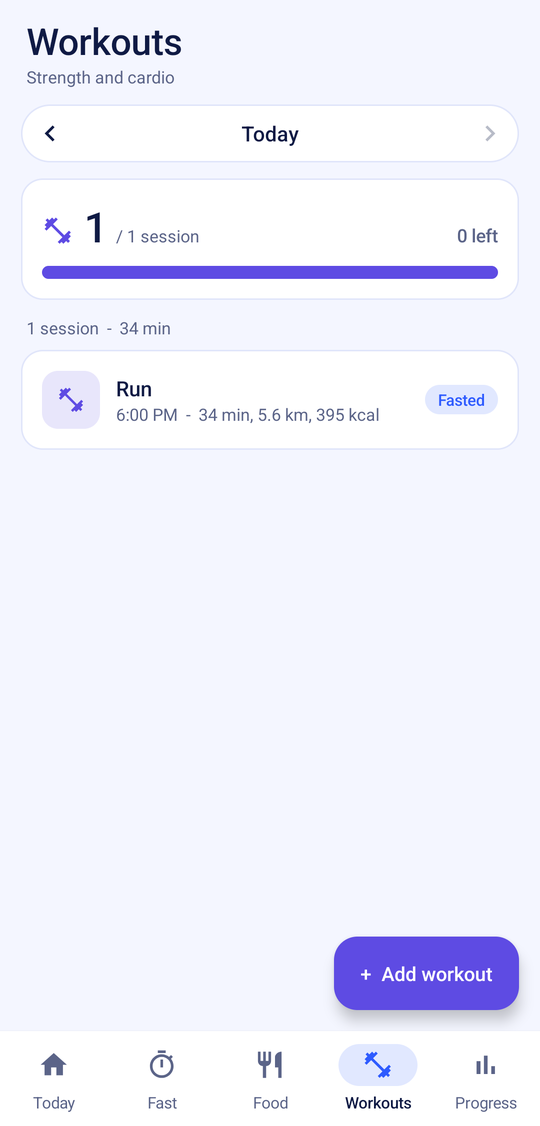
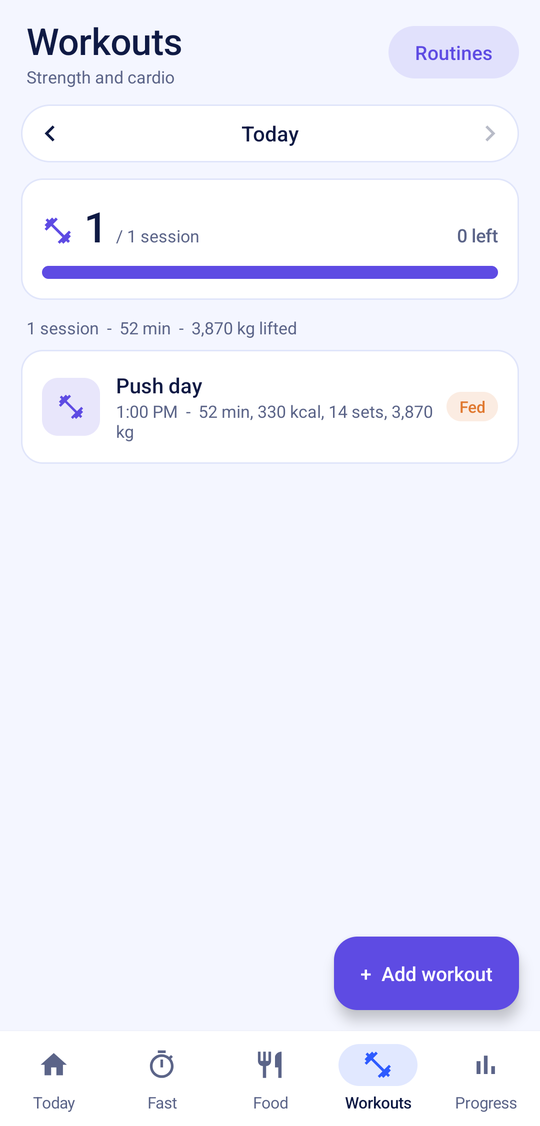
Bump version to 1.2.0 and show routines in the README
Set the version to 1.2.0, versionCode 8. The database moved to version 4
for routines, and a new version keeps this build apart from 1.1.0, which
can't open it.

List the routine features under Workouts and add images of the Routines
screen, the routine editor and the faded exercise suggestion. Recapture
the screens that changed or carry demo data, and add Log strength and
the routine editor to the demo GIF, all from an Android 16 emulator with
invented demo data.

Log food, Log water and the widget images stay as they were, because
those screens didn't change.

diff --git a/README.md b/README.md
@@ -1,13 +1,13 @@
 # Fastwell
 
-![Version 1.1.0](https://img.shields.io/badge/version-1.1.0-blue)
+![Version 1.2.0](https://img.shields.io/badge/version-1.2.0-blue)
 ![Android 16 (API 36)](https://img.shields.io/badge/Android-16%20(API%2036)-brightgreen)
 ![Requires Android 8.0+](https://img.shields.io/badge/requires-Android%208.0%2B-lightgrey)
 
 Track your fasts, meals and workouts in one place. Fastwell combines an intermittent fasting timer with a food journal, a workout journal and progress charts. All your data stays on your phone.
 
 <p align="center">
-  <img src="docs/images/fastwell-demo.gif" alt="Tour of the Fastwell app: Today, Fast, Fasting stages, Food, Workouts and Progress screens" width="300">
+  <img src="docs/images/fastwell-demo.gif" alt="Tour of the Fastwell app: Today, Fast, Fasting stages, Food, Workouts, Log strength, Routine editor and Progress screens" width="300">
 </p>
 
 ## Features
@@ -36,7 +36,11 @@ Track your fasts, meals and workouts in one place. Fastwell combines an intermit
 
 ### Workouts
 - Log cardio and strength sessions with duration, effort and an optional note
-- Record a routine of exercises with sets, reps and weight in strength sessions, and reuse saved or recent routines
+- Add a routine to a strength session, with each exercise's sets, reps and weight or bodyweight
+- Reuse a saved or recent routine, as every routine you log is kept for next time
+- Save routines under a name and manage them from the Routines screen
+- Finish exercise names from faded suggestions as you type, and see what you lifted last time
+- See the sets and kilos lifted in each strength session
 - Pick from running, walking, cycling, swimming, rowing, elliptical and hiking, or name your own activity
 - Get a calorie estimate from your duration, effort and weight
 - Mark each session as fasted or fed
@@ -44,7 +48,11 @@ Track your fasts, meals and workouts in one place. Fastwell combines an intermit
 
 | Workouts | Log cardio | Log strength |
 | :---: | :---: | :---: |
-| <img src="docs/images/demo/05-workouts.png" alt="Workouts" width="240"> | <img src="docs/images/demo/11-log-cardio.png" alt="Log cardio" width="240"> | <img src="docs/images/demo/12-log-strength.png" alt="Log strength" width="240"> |
+| <img src="docs/images/demo/05-workouts.png" alt="Workouts with a Routines button" width="240"> | <img src="docs/images/demo/11-log-cardio.png" alt="Log cardio" width="240"> | <img src="docs/images/demo/12-log-strength.png" alt="Log strength with a routine card" width="240"> |
+
+| Routines | Routine editor | Exercise suggestion |
+| :---: | :---: | :---: |
+| <img src="docs/images/demo/15-routines.png" alt="Saved and recent routines" width="240"> | <img src="docs/images/demo/16-routine-editor.png" alt="Routine editor with sets, reps and weight dials" width="240"> | <img src="docs/images/demo/17-exercise-suggestion.png" alt="Exercise name finished by faded text in the field" width="240"> |
 
 ### Progress
 - See your day at a glance on the Today screen
@@ -75,7 +83,7 @@ Food search is the only feature that sends anything off your phone: your search 
 Fastwell gives general information, not medical advice.
 
 ## Install
-Copy `Fastwell-1.1.0.apk` to the phone, open it, and allow "Install unknown apps" for the app you opened it from.
+Copy `Fastwell-1.2.0.apk` to the phone, open it, and allow "Install unknown apps" for the app you opened it from.
 
 ## Build
 Works on Debian 12/13, Ubuntu 22.04+ and WSL. Install a JDK and three Android tools:
@@ -84,7 +92,7 @@ Works on Debian 12/13, Ubuntu 22.04+ and WSL. Install a JDK and three Android to
 
 Then:
 
-    ./build.sh          # -> out/Fastwell-1.1.0.apk
+    ./build.sh          # -> out/Fastwell-1.2.0.apk
     tests/run.sh        # JVM tests for the fasting/calorie/streak logic
 
 `dx` and the API 23 framework resources are bundled in `tools/` (see `tools/README.md`), so no distro Android SDK packages are needed. On the first run `build.sh` downloads the API 36 `android.jar` (~53 MB, from https://github.com/Reginer/aosp-android-jar) to `sdk/android-36.jar`.
